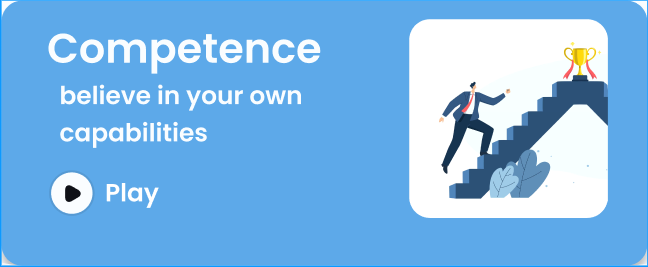
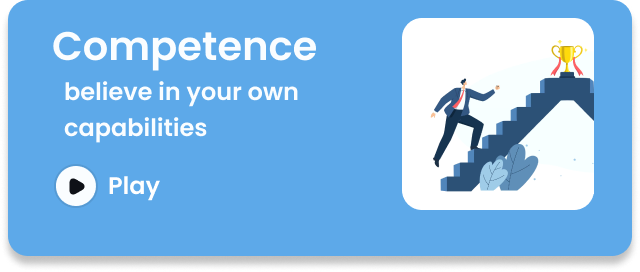
images fixes

diff --git a/lib/screens/quiz/saved_affirmation_screen.dart b/lib/screens/quiz/saved_affirmation_screen.dart
@@ -247,28 +247,29 @@ class _SavedAffirmationScreenState
                         }*/
                       },
                       child: (showIndex(recordsList,index))
-                          ? Container(
-                              height: 150,
-                              width: double.infinity,
-                              margin: const EdgeInsets.all(5),
-                              padding: const EdgeInsets.all(6.0),
-                              decoration: BoxDecoration(
-                                // color: Colors.white,
-                                borderRadius: BorderRadius.circular(15),
-                                image: DecorationImage(
-                                  image: AssetImage(imagePaths[index]["img"]),
-                                  // Use the image path from the list
-                                  fit: BoxFit.cover,
-                                ),
-                                boxShadow: [
-                                  BoxShadow(
-                                    color: Colors.grey.withOpacity(0.2),
-                                    spreadRadius: 2,
-                                    blurRadius: 2,
-                                  ),
-                                ],
-                              ),
-                            )
+                      ? Image.asset(imagePaths[index]["img"])
+                          // ? Container(
+                          //     height: 200,
+                          //     width: double.infinity,
+                          //     margin: const EdgeInsets.all(5),
+                          //     padding: const EdgeInsets.all(6.0),
+                          //     decoration: BoxDecoration(
+                          //       // color: Colors.white,
+                          //       borderRadius: BorderRadius.circular(15),
+                          //       image: DecorationImage(
+                          //         image: AssetImage(imagePaths[index]["img"]),
+                          //         // Use the image path from the list
+                          //         fit: BoxFit.cover,
+                          //       ),
+                          //       boxShadow: [
+                          //         BoxShadow(
+                          //           color: Colors.grey.withOpacity(0.2),
+                          //           spreadRadius: 2,
+                          //           blurRadius: 2,
+                          //         ),
+                          //       ],
+                          //     ),
+                          //   )
                           : Container());
                 },
               ),
